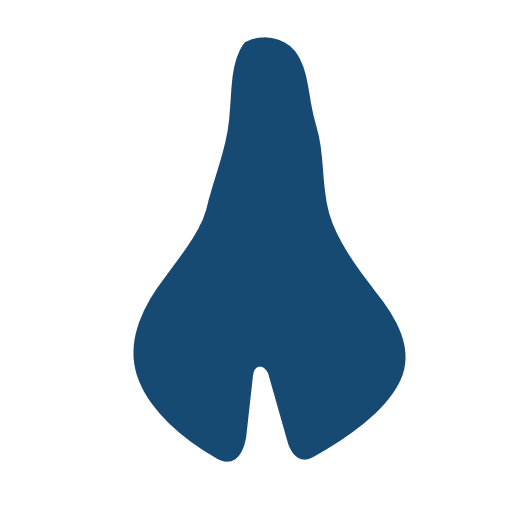
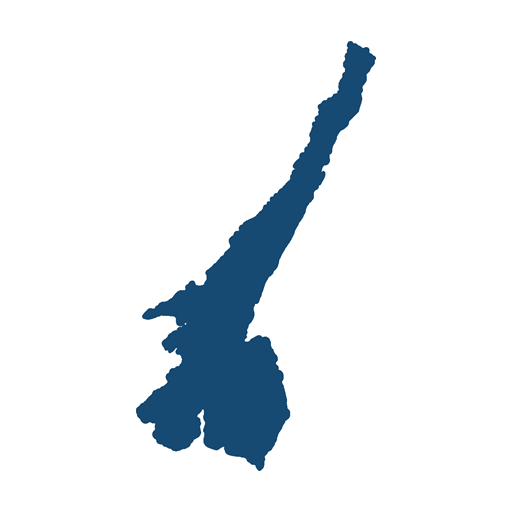
Add files via upload

Changed region(s): [[0.25, 0.0625, 0.8125, 0.9375]]

diff --git a/README.md b/README.md
@@ -45,8 +45,8 @@ La cartella pronta da pubblicare è `mappa_gpx_originali_da_desenzano`.
   percorrenza.
 - `leaflet.js` e `leaflet.css`: libreria cartografica inclusa localmente.
 - `site.js`, `sw.js` e `manifest.webmanifest`: installazione e cache offline.
-- `favicon.svg`, `favicon.ico`, `apple-touch-icon.png`, `icon-192.png` e
-  `icon-512.png`: icona del sito e della schermata Home su iPhone.
+- `favicon.ico`, `apple-touch-icon.png`, `icon-192.png` e `icon-512.png`:
+  icona del sito e della schermata Home su iPhone.
 - `.nojekyll`: impedisce a GitHub Pages di elaborare il sito con Jekyll.
 
 La mappa principale mostra le **tracce originali** del tour. Le distanze della
